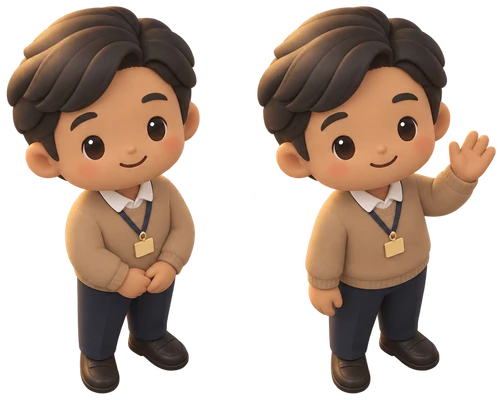
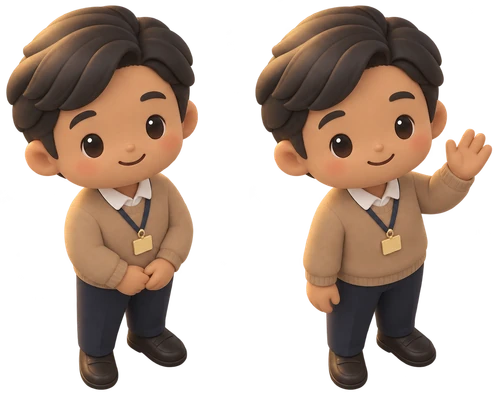
Generated art for every lobby character
Receptionists, the seven walking visitors and the three seated visitors now use their
character sheets. Seated art is anchored at the seat contact and carries its own laptop
or cup, so the drawn laptop only remains for the vector fallback.

diff --git a/src/lobby/assets.ts b/src/lobby/assets.ts
@@ -74,10 +74,24 @@ export interface CharacterEntry {
   headY: number;
 }
 
-// Characters from generated sheets (see ASSETS.md). Cells are cut, aligned on the feet and sized
-// by a script so every character stands 62 px tall, like the vector chibis.
+// Characters from generated sheets (see ASSETS.md). Cells are cut, aligned on the ground point and sized
+// by a script so every character stands 62 px tall like the vector chibis (65 with a top bun).
+// Seated characters are anchored at the seat contact and measure 48 px from there to the top of the head.
 export const CHARACTERS: Record<string, CharacterEntry> = {
-  "staff-about": { src: "/lobby/staff-about.webp", poses: ["front", "wave"], anchor: { x: 0.5328, y: 0.9538 }, width: 41.51, headY: -62 },
+  "staff-about": { src: "/lobby/staff-about.webp", poses: ["front", "wave"], anchor: { x: 0.5329, y: 0.9548 }, width: 41.43, headY: -62 },
+  "staff-portfolio": { src: "/lobby/staff-portfolio.webp", poses: ["front", "wave"], anchor: { x: 0.5404, y: 0.9739 }, width: 41.03, headY: -62 },
+  "staff-skills": { src: "/lobby/staff-skills.webp", poses: ["front", "wave"], anchor: { x: 0.5348, y: 0.9606 }, width: 41.49, headY: -62 },
+  "staff-experience": { src: "/lobby/staff-experience.webp", poses: ["front", "wave"], anchor: { x: 0.5171, y: 0.9547 }, width: 42.88, headY: -62 },
+  "visitor-1": { src: "/lobby/visitor-1.webp", poses: ["front", "back"], anchor: { x: 0.5835, y: 0.9709 }, width: 36.58, headY: -62 },
+  "visitor-2": { src: "/lobby/visitor-2.webp", poses: ["front", "back"], anchor: { x: 0.5629, y: 0.9597 }, width: 41.24, headY: -62 },
+  "visitor-3": { src: "/lobby/visitor-3.webp", poses: ["front", "back"], anchor: { x: 0.5284, y: 0.9706 }, width: 33.25, headY: -65 },
+  "visitor-4": { src: "/lobby/visitor-4.webp", poses: ["front", "back"], anchor: { x: 0.5664, y: 0.9629 }, width: 36.92, headY: -62 },
+  "visitor-5": { src: "/lobby/visitor-5.webp", poses: ["front", "back"], anchor: { x: 0.5683, y: 0.9669 }, width: 37.51, headY: -62 },
+  "visitor-6": { src: "/lobby/visitor-6.webp", poses: ["front", "back"], anchor: { x: 0.5158, y: 0.9546 }, width: 43.65, headY: -62 },
+  "visitor-7": { src: "/lobby/visitor-7.webp", poses: ["front", "back"], anchor: { x: 0.5802, y: 0.955 }, width: 39.39, headY: -62 },
+  "sitter-1": { src: "/lobby/sitter-1.webp", poses: ["seated"], anchor: { x: 0.375, y: 0.7434 }, width: 40.32, headY: -48 },
+  "sitter-2": { src: "/lobby/sitter-2.webp", poses: ["seated"], anchor: { x: 0.4111, y: 0.7439 }, width: 38.45, headY: -52 },
+  "sitter-3": { src: "/lobby/sitter-3.webp", poses: ["seated"], anchor: { x: 0.3889, y: 0.7398 }, width: 39.59, headY: -48 },
 };
 
 const frameCache = new Map<string, Partial<Record<CharacterPose, Texture>>>();

diff --git a/src/lobby/config.ts b/src/lobby/config.ts
@@ -82,14 +82,15 @@ export const WAYPOINTS: Record<string, { gx: number; gy: number; links: string[]
   lounge: { gx: 17, gy: 22.2, links: ["r2", "exp"] },
 };
 
+// `sheet` is the character art (CHARACTERS in assets.ts); the colors draw the vector chibi while it is missing.
 export const VISITORS = [
-  { hair: 0x2d2420, shirt: 0x3c4a6b, curly: true },
-  { hair: 0x6b4a33, shirt: 0xd9d2c5 },
-  { hair: 0xe3c68f, shirt: 0x2f3b5c, bun: true },
-  { hair: 0x2d2420, shirt: 0x8a6a52, bun: true },
-  { hair: 0x3b2a22, shirt: 0x4f6b62, curly: true },
-  { hair: 0x1f1a17, shirt: 0xe9e2d7 },
-  { hair: 0x5a3b2a, shirt: 0x1f2a44 },
+  { sheet: "visitor-1", hair: 0x2d2420, shirt: 0x3c4a6b, curly: true },
+  { sheet: "visitor-2", hair: 0x6b4a33, shirt: 0xd9d2c5 },
+  { sheet: "visitor-3", hair: 0xe3c68f, shirt: 0x2f3b5c, bun: true },
+  { sheet: "visitor-4", hair: 0x2d2420, shirt: 0x8a6a52, bun: true },
+  { sheet: "visitor-5", hair: 0x3b2a22, shirt: 0x4f6b62, curly: true },
+  { sheet: "visitor-6", hair: 0x1f1a17, shirt: 0xe9e2d7 },
+  { sheet: "visitor-7", hair: 0x5a3b2a, shirt: 0x1f2a44 },
 ];
 
 // Seated visitors and the seat under each one. Their lines come from content.lobby.sitterLines.
@@ -97,7 +98,7 @@ export const VISITORS = [
 // benches along gy face down-right (dir +1), the sofa along gx faces down-left (dir -1).
 // seat.h is the seat top height in world px, measured on the seat art.
 export const SITTERS = [
-  { gx: 12.24, gy: 15.7, dir: 1, hair: 0x2d2420, shirt: 0x2f3b5c, laptop: true, seat: { kind: "bench", gx: 12.1, gy: 15.4, h: 11 } },
-  { gx: 17.94, gy: 14.6, dir: 1, hair: 0xe3c68f, shirt: 0xd9d2c5, bun: true, seat: { kind: "bench", gx: 17.8, gy: 14.6, h: 11 } },
-  { gx: 15.2, gy: 24.2, dir: -1, hair: 0x3b2a22, shirt: 0x8a6a52, laptop: true, seat: { kind: "sofa", gx: 15.2, gy: 24, h: 9 } },
+  { sheet: "sitter-1", gx: 12.24, gy: 15.7, dir: 1, hair: 0x2d2420, shirt: 0x2f3b5c, laptop: true, seat: { kind: "bench", gx: 12.1, gy: 15.4, h: 11 } },
+  { sheet: "sitter-2", gx: 17.94, gy: 14.6, dir: 1, hair: 0xe3c68f, shirt: 0xd9d2c5, bun: true, seat: { kind: "bench", gx: 17.8, gy: 14.6, h: 11 } },
+  { sheet: "sitter-3", gx: 15.2, gy: 24.2, dir: -1, hair: 0x3b2a22, shirt: 0x8a6a52, laptop: true, seat: { kind: "sofa", gx: 15.2, gy: 24, h: 9 } },
 ];

diff --git a/src/lobby/layers/Chibi.ts b/src/lobby/layers/Chibi.ts
@@ -41,13 +41,14 @@ export class Chibi extends Container {
     if (look.sheet && this.frames) {
       const entry = CHARACTERS[look.sheet];
       this.headY = entry.headY;
-      const shadow = new Graphics().ellipse(0, 0, 11, 4).fill({ color: 0x000000, alpha: 0.18 });
       const tex = this.poseTexture();
       this.sprite = new Sprite(tex);
       this.sprite.anchor.set(entry.anchor.x, entry.anchor.y);
       this.sprite.scale.set(entry.width / tex.width);
       this.rig.addChild(this.sprite);
-      this.addChild(shadow, this.rig);
+      // seated art is anchored at the seat, so a floor shadow would land on the seat
+      if (!look.seated) this.addChild(new Graphics().ellipse(0, 0, 11, 4).fill({ color: 0x000000, alpha: 0.18 }));
+      this.addChild(this.rig);
       return;
     }
 
@@ -175,6 +176,11 @@ export class Chibi extends Container {
     } else if (!this.look.seated) {
       this.legs.scale.y = moving ? 1 - Math.abs(Math.cos(this.phase)) * 0.2 : 1;
     }
+  }
+
+  /** True when drawn from a character sheet (its props, like a laptop, are part of the art). */
+  get hasArt() {
+    return this.sprite !== null;
   }
 
   get facingViewer() {

diff --git a/src/lobby/layers/Npc.ts b/src/lobby/layers/Npc.ts
@@ -142,6 +142,7 @@ export class Sitter extends Container {
 
   constructor(
     readonly spot: {
+      sheet?: string;
       gx: number;
       gy: number;
       dir: number;
@@ -163,12 +164,12 @@ export class Sitter extends Container {
 
     // hips sink slightly into the seat top; the legs hang over the front edge down to the floor
     const h = spot.seat.h - 2;
-    this.chibi = new Chibi({ hair: spot.hair, shirt: spot.shirt, bun: spot.bun, seated: true, seatHeight: h });
+    this.chibi = new Chibi({ sheet: spot.sheet, hair: spot.hair, shirt: spot.shirt, bun: spot.bun, seated: true, seatHeight: h });
     this.chibi.setFacing(spot.dir, true);
     this.chibi.y = -h;
     this.addChild(this.chibi);
 
-    if (spot.laptop) {
+    if (spot.laptop && !this.chibi.hasArt) {
       const lap = new Graphics();
       const y = -h - 3;
       lap.roundRect(-10 * -spot.dir - 7, y, 14, 3, 1).fill(0xc9ccd3);

diff --git a/ASSETS.md b/ASSETS.md
@@ -45,11 +45,13 @@ Los generadores de imágenes no mantienen bien a un personaje a lo largo de much
 
 | Archivo | Quién | Poses (de izquierda a derecha) | Lienzo |
 |---|---|---|---|
-| `staff-about` ✅, `staff-portfolio`, `staff-skills`, `staff-experience` | Recepcionistas | De frente · saludando | 1536 × 1024 |
-| `visitor-1` … `visitor-7` | Visitantes que caminan | De frente hacia abajo a la derecha · de espaldas hacia arriba a la derecha | 1536 × 1024 |
-| `sitter-1`, `sitter-2`, `sitter-3` | Sentados (banca, banca, sofá) | Sentado sobre un asiento invisible, mirando abajo a la derecha | 1024 × 1024 |
+| ✅ `staff-about`, `staff-portfolio`, `staff-skills`, `staff-experience` | Recepcionistas | De frente · saludando | 1536 × 1024 |
+| ✅ `visitor-1` … `visitor-7` | Visitantes que caminan | De frente hacia abajo a la derecha · de espaldas hacia arriba a la derecha | 1536 × 1024 |
+| ✅ `sitter-1`, `sitter-2`, `sitter-3` | Sentados (banca, banca, sofá) | Sentado sobre un asiento invisible, mirando abajo a la derecha | 1024 × 1024 (ChatGPT las entrega de 1254 × 1254) |
 
-Al prepararla, cada hoja se corta en celdas iguales (una por pose) alineadas en los pies y se reduce a 400 px de alto en WebP. La entrada de `CHARACTERS` en `src/lobby/assets.ts` guarda las poses, el punto de apoyo (entre los pies), el ancho de la celda y la altura de la cabeza, de modo que todos miden 62 px como los chibis vectoriales. Mientras un personaje no tenga imagen, se sigue dibujando el chibi vectorial.
+Al prepararla, cada hoja se corta en celdas iguales (una por pose) que comparten el punto de apoyo y se guarda en WebP a 6 px por px del mundo (unos 400 px de alto). El punto de apoyo es el centro entre los pies o, en los sentados, el punto donde tocan el asiento (medido a mano sobre la imagen). La entrada de `CHARACTERS` en `src/lobby/assets.ts` guarda las poses, ese punto, el ancho de la celda y la altura de la cabeza: de pie miden 62 px como los chibis vectoriales (65 con moño alto) y sentados 48 px desde el asiento (52 con moño). Mientras un personaje no tenga imagen, se sigue dibujando el chibi vectorial.
+
+Revisar que cada archivo corresponda a su personaje antes de prepararlo: `staff-skills` y `staff-experience` llegaron con los nombres cruzados.
 
 Flujo: primero `staff-about` con `art/lobby/sofa.png` y `art/lobby/plant-a.png` como referencia de estilo (prompt A). Cuando esa hoja se vea bien dentro del lobby, cada personaje nuevo se pide adjuntando esa hoja (prompt B) para que todos tengan el mismo estilo y tamaño.
 
